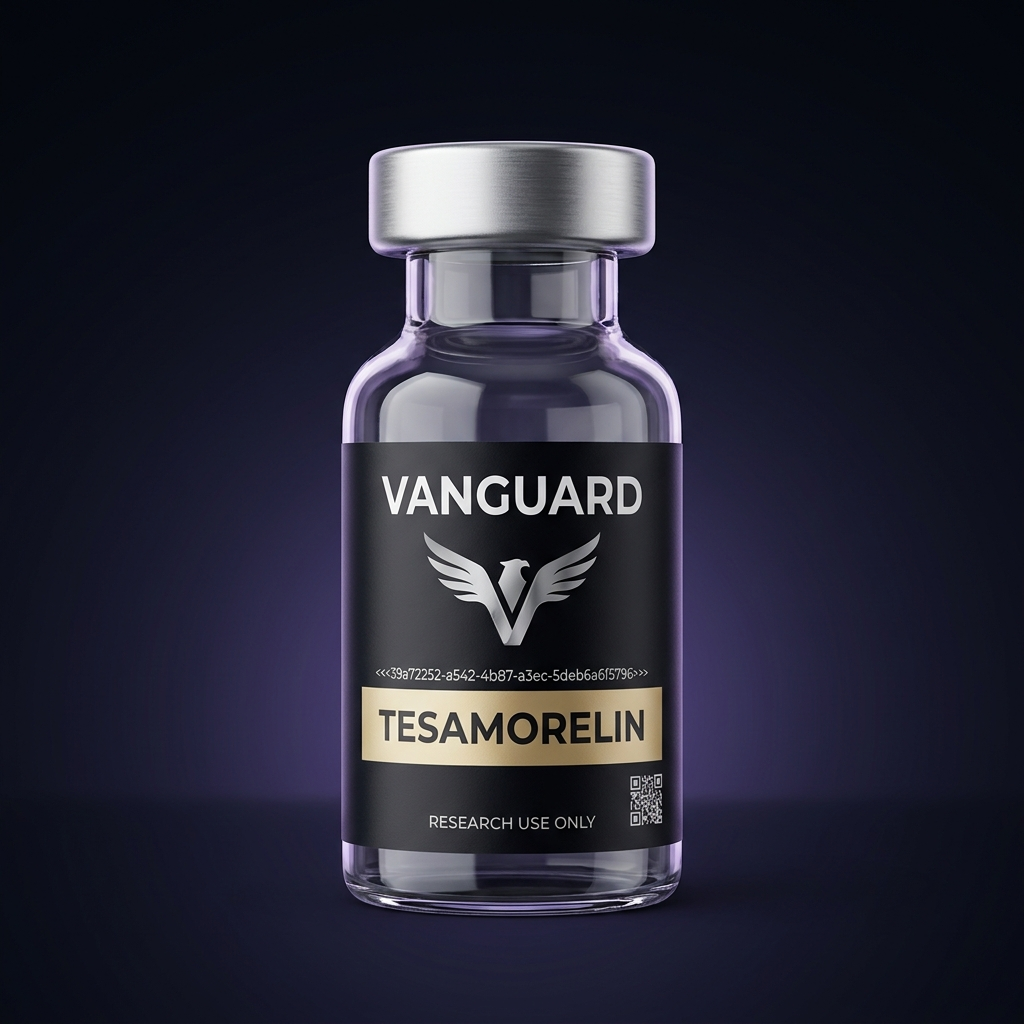
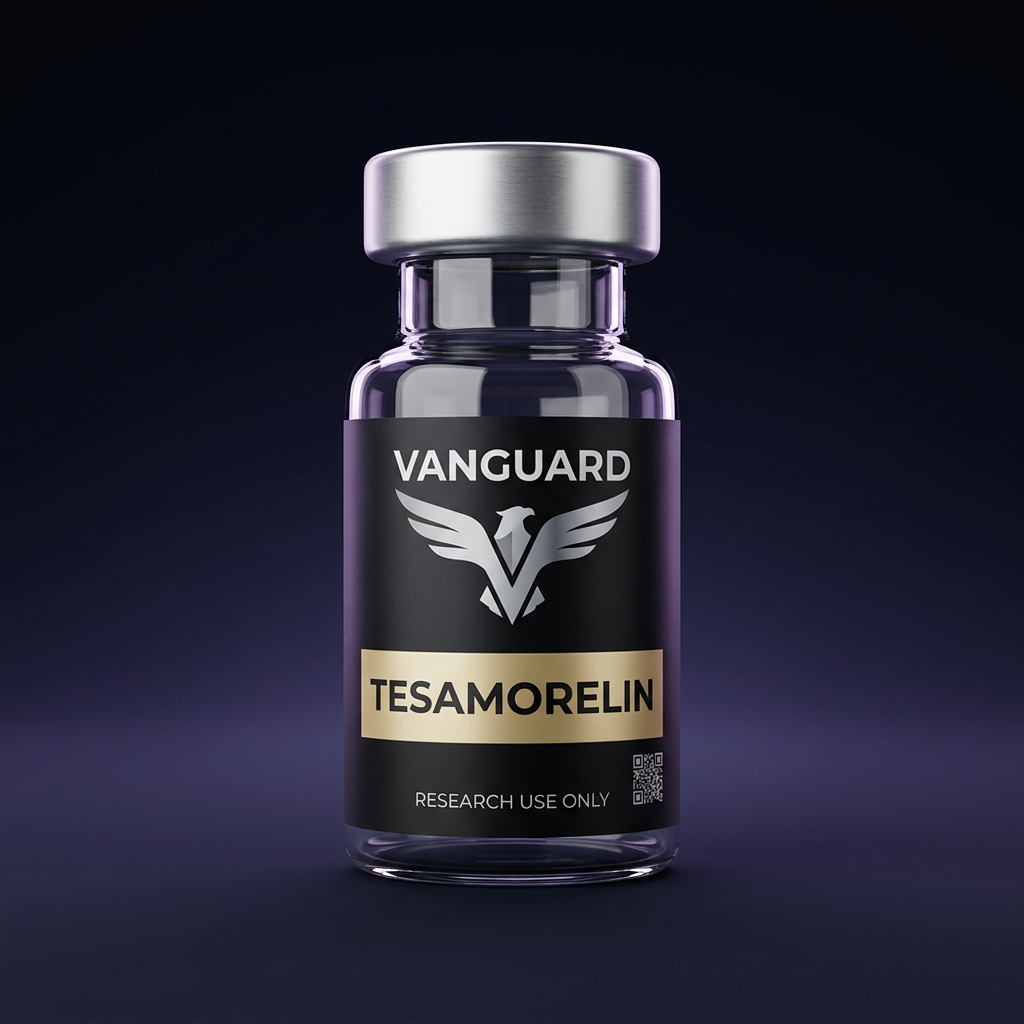
Fix mismatched sizing and a broken Tesamorelin render
- Grid image container is now a fixed aspect-square box so the
  fallback SVG vial (used by every product without a photo yet)
  scales to match the real photo vials instead of rendering tall
  and oversized.
- Tesamorelin's label had the raw reference-element ID printed as
  literal text instead of resolving to the logo graphic. Regenerated.

Changed region(s): [[0.0, 0.125, 1.0, 1.0]]

diff --git a/app/products/page.tsx b/app/products/page.tsx
@@ -18,8 +18,8 @@ export default function ProductsPage() {
           const actions = ACTIONS_BY_STATUS[c.regulatory];
           return (
             <GlassCard key={c.slug} className="card-lift flex h-full flex-col p-5">
-              <div className="mb-3 flex items-center justify-center rounded-xl border border-white/10 bg-white/[0.03] py-6">
-                <ProductVial slug={c.slug} name={c.name} strength={c.strength} size={184} />
+              <div className="mb-3 flex aspect-square items-center justify-center overflow-hidden rounded-xl border border-white/10 bg-white/[0.03]">
+                <ProductVial slug={c.slug} name={c.name} strength={c.strength} size={184} className="h-full w-full object-contain" />
               </div>
               <div className="flex items-center justify-between">
                 <div className="font-display text-lg font-bold text-bone">{c.name}</div>
